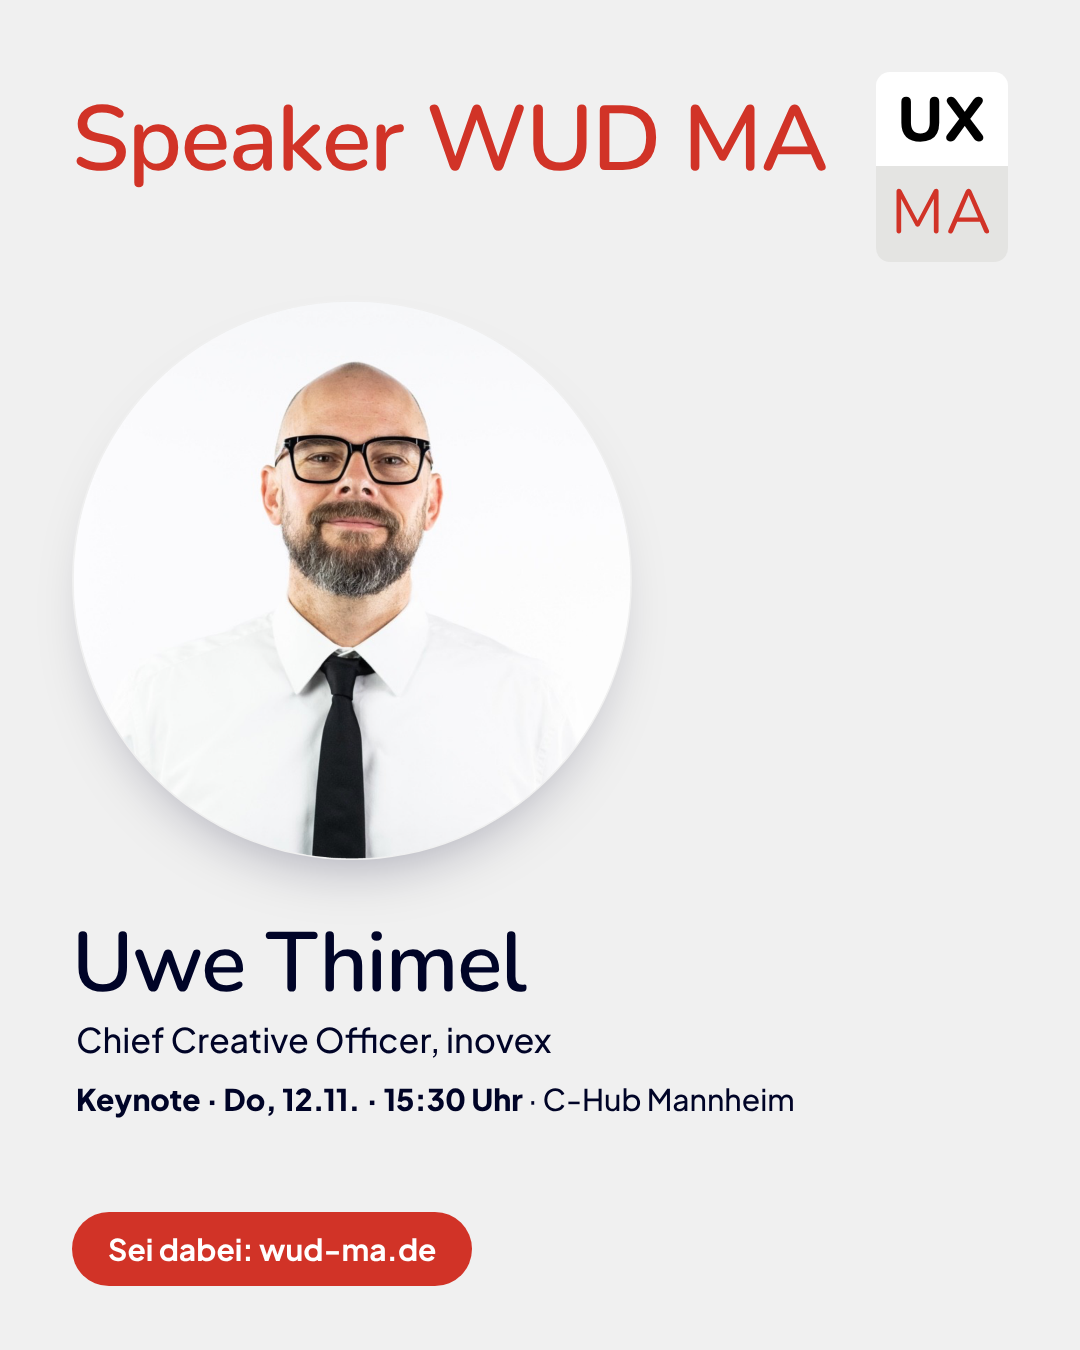
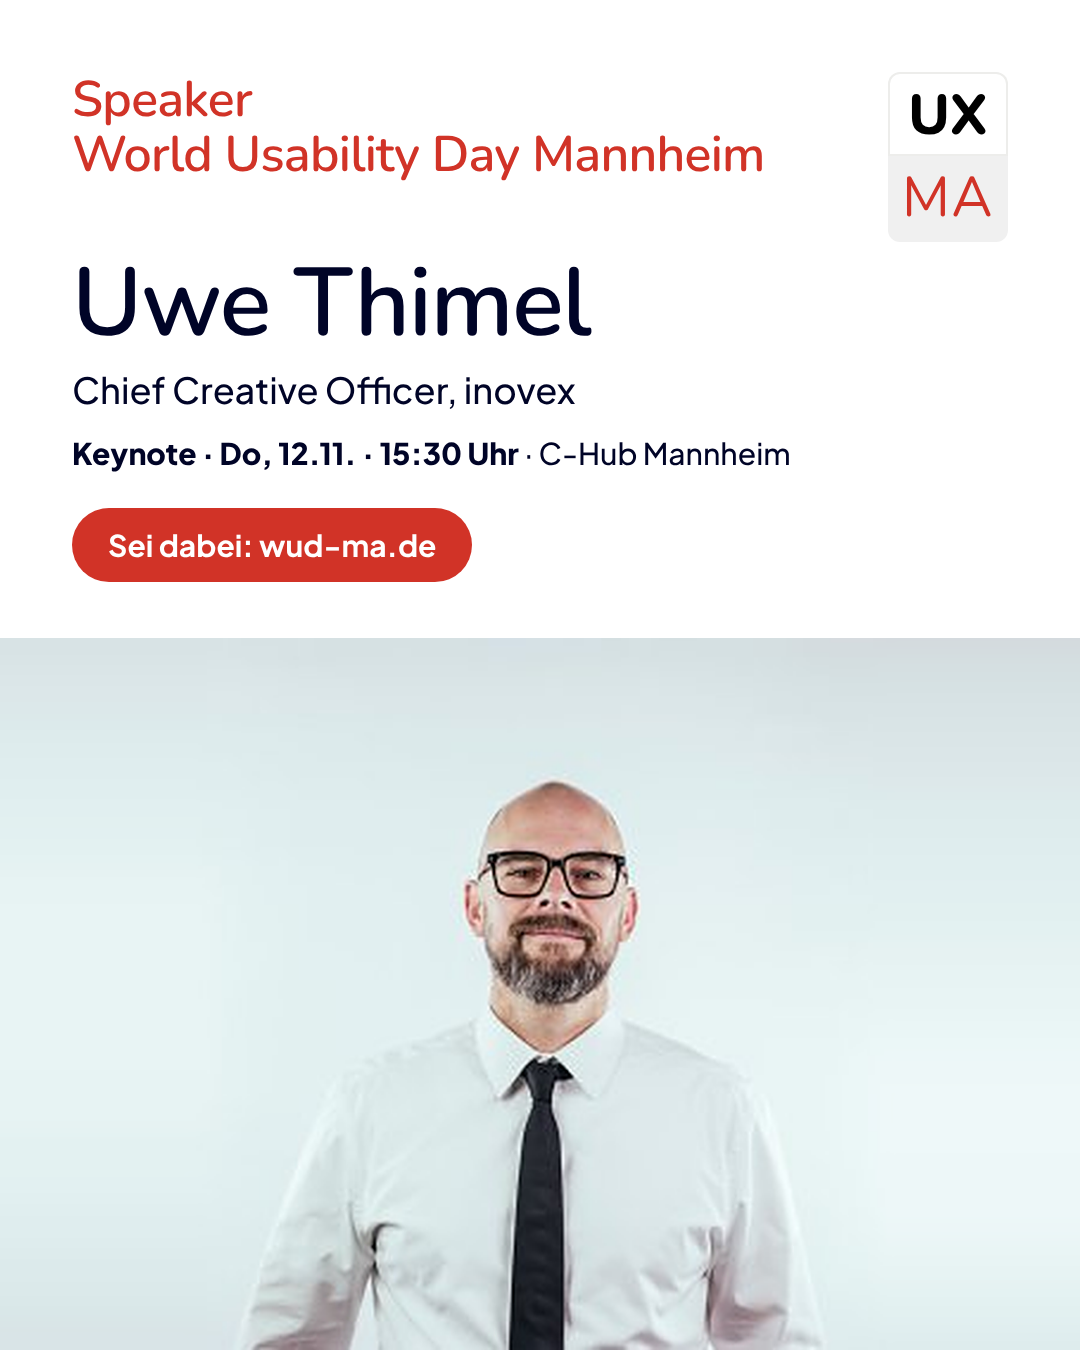
Keynote-Grafik neu: zwei Panels, Foto über die ganze Breite, S/W-Variante
- Oben: Headline "Speaker World Usability Day Mannheim", UX-MA-Logo, Name, Rolle, Infos, Button
- Unten: neues Foto, seitlich mit Hintergrund verlängert
- Je Variante (für euch / zum Teilen) auch in Schwarz-Weiß

Claude-Session: https://claude.ai/code/session_01FdBpF3p1XTs9Kowkd1XXbf

diff --git a/assets/src/keynote-speaker.html b/assets/src/keynote-speaker.html
@@ -2,57 +2,56 @@
 <html lang="de">
 <head>
 <meta charset="utf-8">
-<title>Speaker WUD MA – Post (1080×1350)</title>
+<title>Speaker – Post (1080×1350)</title>
 <link rel="stylesheet" href="brand.css">
 <style>
-  body { width: 1080px; height: 1350px; background: var(--grey); position: relative; }
+  /* Zwei Panels: oben Text, unten Foto über die ganze Breite.
+     Varianten per URL-Hash: #sw = Foto schwarz-weiß · #teilen = Button für den Speaker · kombinierbar (#sw-teilen) */
+  body { width: 1080px; height: 1350px; background: var(--white); position: relative; display: flex; flex-direction: column; }
+
+  .top { position: relative; padding: 72px 72px 56px; }
 
   /* UX-MA-Logo, nachgebaut */
-  .uxma { position: absolute; right: 72px; top: 72px; width: 132px; text-align: center; font-family: var(--font-head); line-height: 1; }
-  .uxma .ux { background: var(--white); border-radius: 14px 14px 0 0; font-weight: 800; font-size: 62px; color: #000; padding: 18px 0 14px; letter-spacing: .01em; }
-  .uxma .ma { background: #E4E4E2; border-radius: 0 0 14px 14px; font-weight: 400; font-size: 62px; color: var(--red); padding: 16px 0 18px; letter-spacing: .03em; }
+  .uxma { position: absolute; right: 72px; top: 72px; width: 120px; text-align: center; font-family: var(--font-head); line-height: 1; }
+  .uxma .ux { background: var(--white); border-radius: 12px 12px 0 0; font-weight: 800; font-size: 56px; color: #000; padding: 16px 0 12px; box-shadow: inset 0 0 0 2px #EDEDEB; }
+  .uxma .ma { background: var(--grey); border-radius: 0 0 12px 12px; font-weight: 400; font-size: 56px; color: var(--red); padding: 14px 0 16px; letter-spacing: .03em; }
 
-  .headline { position: absolute; left: 72px; top: 92px; font-size: 92px; color: var(--red); }
-
-  .photo { position: absolute; left: 72px; top: 300px; width: 560px; height: 560px; border-radius: 50%; overflow: hidden;
-           box-shadow: 0 30px 60px -30px rgba(0,4,39,.35); }
-  .photo img { width: 100%; height: 100%; display: block; }
-
-  .name { position: absolute; left: 72px; top: 920px; font-size: 84px; color: var(--navy); }
-  .role { position: absolute; left: 76px; top: 1018px; font-size: 34px; font-weight: 500; }
-  .talk { position: absolute; left: 76px; top: 1078px; right: 72px; font-family: var(--font-head); font-weight: 600; font-size: 40px; line-height: 1.15; color: var(--red); }
+  .headline { font-size: 50px; color: var(--red); max-width: 790px; line-height: 1.1; }
+  .name { margin-top: 72px; font-size: 96px; color: var(--navy); }
+  .role { margin-top: 12px; font-size: 36px; font-weight: 500; }
+  .talk { margin-top: 24px; font-family: var(--font-head); font-weight: 600; font-size: 40px; line-height: 1.15; color: var(--red); max-width: 936px; }
   .talk:empty { display: none; }
-  .meta { position: absolute; left: 76px; top: 1080px; font-size: 30px; font-weight: 500; }
-  /* mit Vortragstitel: Foto etwas kleiner, Textblock rückt nach oben */
-  .has-talk .photo { width: 480px; height: 480px; }
-  .has-talk .name { top: 830px; }
-  .has-talk .role { top: 928px; }
-  .has-talk .talk { top: 990px; }
-  .has-talk .meta { top: 1100px; }
+  .meta { margin-top: 22px; font-size: 30px; font-weight: 500; }
   .meta b { font-weight: 800; }
-  .cta { position: absolute; left: 72px; bottom: 64px; font-size: 30px; padding: 18px 36px; }
+
+  .photo { flex: 1; background: url(img/speaker-uwe-thimel_breit.png) center bottom / auto 100% no-repeat; }
+  body.sw .photo { background-image: url(img/speaker-uwe-thimel_breit_sw.png); }
+
+  .cta { margin-top: 36px; font-size: 30px; padding: 18px 36px; }
 </style>
 </head>
 <body>
   <!-- ▼ Vortragstitel hier eintragen, sobald er feststeht (leer lassen = keine Titelzeile) -->
   <script>const TALK_TITLE = "";</script>
 
-  <div class="uxma"><div class="ux">UX</div><div class="ma">MA</div></div>
-  <div class="head headline">Speaker WUD MA</div>
+  <div class="top">
+    <div class="uxma"><div class="ux">UX</div><div class="ma">MA</div></div>
+    <div class="head headline">Speaker<br>World Usability Day Mannheim</div>
+    <div class="head name">Uwe Thimel</div>
+    <div class="role">Chief Creative Officer, inovex</div>
+    <div class="talk" id="talk"></div>
+    <div class="meta"><b>Keynote · Do, 12.11. · 15:30 Uhr</b> · C-Hub Mannheim</div>
+    <div class="pill cta" id="cta">Jetzt anmelden: wud-ma.de</div>
+  </div>
 
-  <div class="photo"><img src="img/speaker-uwe-thimel.png" alt="Uwe Thimel"></div>
-
-  <div class="head name">Uwe Thimel</div>
-  <div class="role">Chief Creative Officer, inovex</div>
-  <div class="talk" id="talk"></div>
-  <div class="meta"><b>Keynote · Do, 12.11. · 15:30 Uhr</b> · C-Hub Mannheim</div>
-  <div class="pill cta" id="cta">Jetzt anmelden: wud-ma.de</div>
+  <div class="photo"></div>
 
   <script>
     const talk = document.getElementById('talk');
     if (TALK_TITLE) { talk.textContent = "„" + TALK_TITLE + "“"; document.body.classList.add('has-talk'); }
-    // Variante zum Teilen für den Speaker selbst
-    if (location.hash === '#teilen') document.getElementById('cta').textContent = 'Sei dabei: wud-ma.de';
+    const h = location.hash;
+    if (h.includes('sw')) document.body.classList.add('sw');
+    if (h.includes('teilen')) document.getElementById('cta').textContent = 'Sei dabei: wud-ma.de';
   </script>
 </body>
 </html>

diff --git a/assets/render.py b/assets/render.py
@@ -27,6 +27,8 @@ PNG_JOBS = [
     ("session-card-post.html", "wud-ma-2026_session-card_linkedin_1080x1350.png", 1080, 1350, 1),
     ("keynote-speaker.html", "wud-ma-2026_keynote-uwe-thimel_linkedin_1080x1350.png", 1080, 1350, 1),
     ("keynote-speaker.html#teilen", "wud-ma-2026_keynote-uwe-thimel_zum-teilen_1080x1350.png", 1080, 1350, 1),
+    ("keynote-speaker.html#sw", "wud-ma-2026_keynote-uwe-thimel_linkedin_sw_1080x1350.png", 1080, 1350, 1),
+    ("keynote-speaker.html#sw-teilen", "wud-ma-2026_keynote-uwe-thimel_zum-teilen_sw_1080x1350.png", 1080, 1350, 1),
 ]
 # Flyer: DIN A5 + 3 mm Beschnitt (154 × 216 mm), Vorder- und Rückseite
 PDF_JOBS = [

diff --git a/README.md b/README.md
@@ -50,7 +50,8 @@ Versandplan mit Terminen: [`newsletter/README.md`](newsletter/README.md)
 | `…_save-the-date_quadrat_1080x1080.png` | 1 : 1 | Save-the-Date für Instagram & Co. |
 | `…_session-card_linkedin_1080x1350.png` | 4 : 5 | „Was pitchst du?“-Post im Stil der Session Cards |
 | `…_keynote-uwe-thimel_linkedin_1080x1350.png` | 4 : 5 | Keynote-Ankündigung (für euch) |
-| `…_keynote-uwe-thimel_zum-teilen_1080x1350.png` | 4 : 5 | Keynote-Ankündigung zum Teilen für Uwe („Ich halte die Keynote“) |
+| `…_keynote-uwe-thimel_zum-teilen_1080x1350.png` | 4 : 5 | Gleiche Grafik zum Teilen für Uwe (Button „Sei dabei“) |
+| `…_keynote-uwe-thimel_…_sw_1080x1350.png` | 4 : 5 | Beide Varianten mit Foto in Schwarz-Weiß |
 | `…_flyer_a5_mit-beschnitt.pdf` | DIN A5 + 3 mm | Druckbarer Flyer, Vorder- & Rückseite, QR-Code zur Anmeldung |
 | `…_flyer_a5_digital.pdf` | DIN A5 | Gleicher Flyer ohne Beschnittränder – als Mail-Anhang (z. B. Newsletter 1) |
 | `…_flyer_vorschau-1/2.png` | | Vorschaubilder des Flyers |
